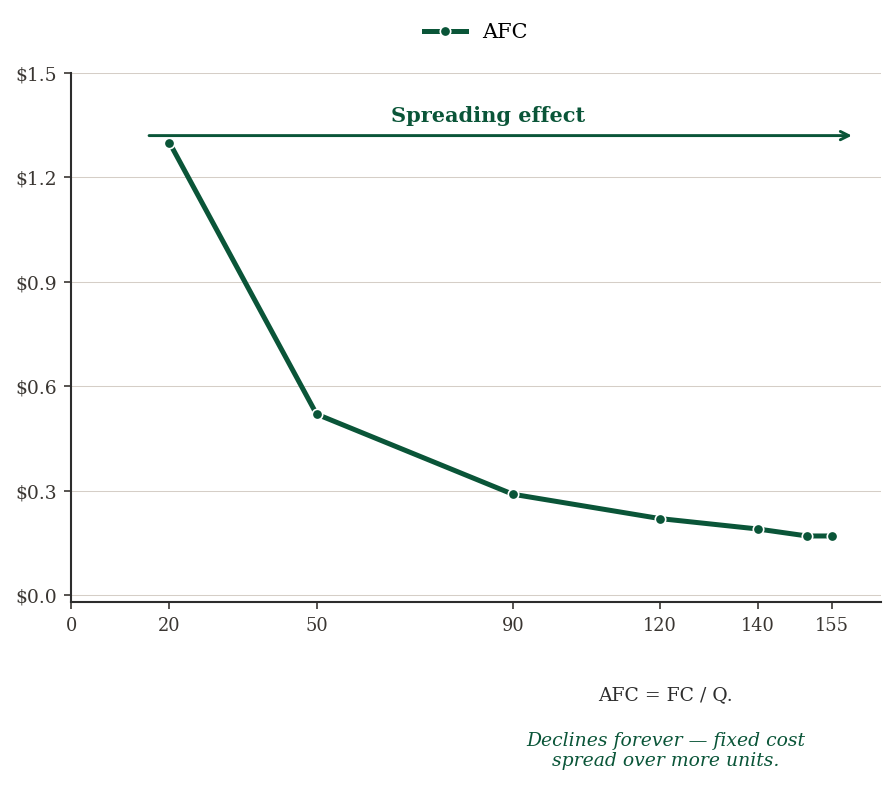
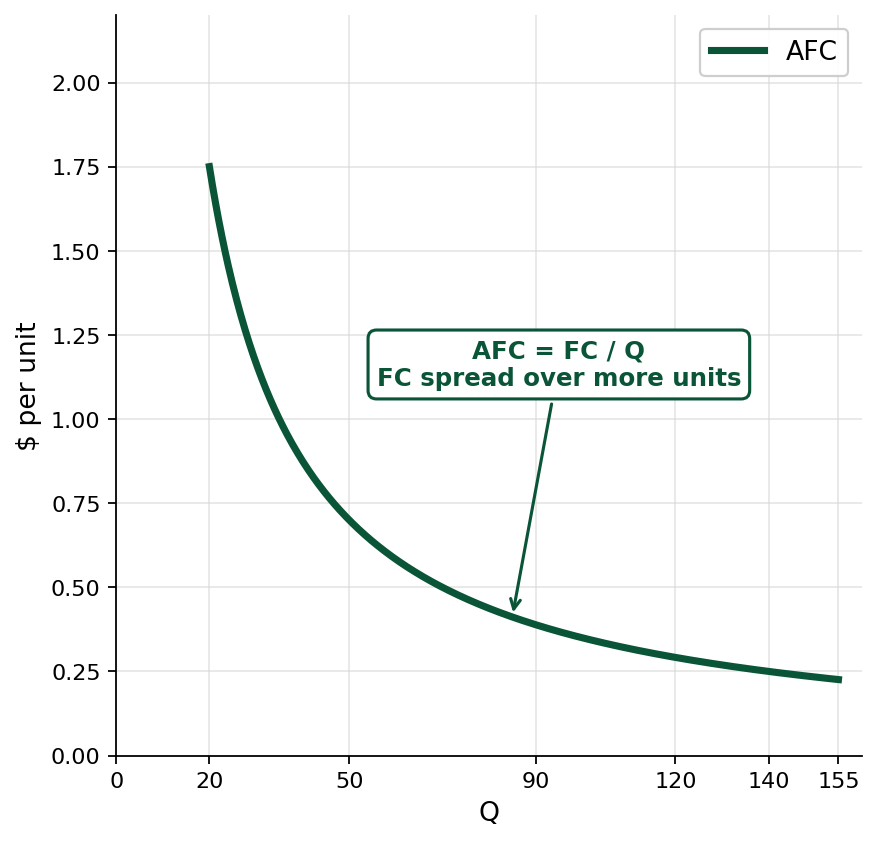
ch09 p58: regenerate amc panels (drop region-label mismatch, fill slide)
User reported two issues with the imported 2316 panels:
- Bottom "When MC < AVC, AVC is falling / When MC > AVC, AVC is rising"
  text divided at AVC min (Q=120) while top "Increasing returns /
  Diminishing returns" arrows divided at MC min (~Q=90). Same chart,
  two different region splits → confusing.
- Figures were too small (wasted ~50% vertical slide budget).

Fix: render fresh figures via figures/render_amc_panels.py with cleaner
content (only curves + axes + legend + one crossing-point annotation per
chart). All 3 panels at uniform 877x842 px (aspect ~1.04) so a 1fr/1fr/1fr
grid renders them at equal height ~395 px, filling the slide.

Cost function (a=1.20, b=-0.0108, c=4.5e-5, FC=35) pins AVC min at
Q=120 ($0.55) and ATC min at Q=140 ($0.82); MC crosses each at its
minimum, marked with a green dot + small annotation box.

Also: HTML grid switched from per-panel fixed pixel widths to plain
1fr/1fr/1fr (now that all 3 PNGs share the same aspect).

diff --git a/econ1116/ch09-inside-the-firm/index.html b/econ1116/ch09-inside-the-firm/index.html
@@ -2148,48 +2148,49 @@
 <section id="amc-three-panels">
  <h2><i class="fa-solid fa-chart-line" style="color: var(--success-color);"></i> Average and Marginal Costs &mdash; Three Curves, Step by Step</h2>
 
- <!-- Flex row: each column has fixed width equal to its image's natural width
-      at height=220px (down from 270 so bullets never get clipped under the slide bottom).
-      Source images are 786px tall, widths: 1229 / 1284 / 895 → ratios 1.564 / 1.633 / 1.139. -->
- <div style="display: flex; justify-content: center; align-items: flex-start; gap: 14px; margin-top: 4px;">
+ <!-- 3-col equal grid. All 3 source PNGs are 1197x778 so equal-width columns
+      auto-render at equal height. Cleaner figures (no confusing region labels)
+      regenerated from figures/render_amc_panels.py — only the curves, axes,
+      legend, and one crossing-point annotation per chart. -->
+ <div style="display: grid; grid-template-columns: 1fr 1fr 1fr; gap: 12px; margin-top: 4px;">
 
-  <!-- Panel 1: AVC + MC (always visible) — 1.564 × 220 ≈ 344 -->
-  <div style="flex: 0 0 auto; width: 344px; text-align: center;">
-   <p style="font-size: 10.5pt; margin: 0 0 3px;">
+  <!-- Panel 1: AVC + MC (always visible) -->
+  <div style="text-align: center; min-width: 0;">
+   <p style="font-size: 11.5pt; margin: 0 0 4px;">
     <span style="color: #9C6FCC; font-weight: 800;">AVC</span> + <span style="color: #C72A2A; font-weight: 800;">MC</span>
     &nbsp;&middot;&nbsp; crossing at <strong>Q = 120</strong>
    </p>
-   <img alt="AVC (purple, U-shape) and MC (red) crossing at AVC minimum at Q=120; MC<AVC means AVC falling, MC>AVC means AVC rising, MC crosses AVC at its minimum." src="figures/fig-amc-panel-avc-mc.png" style="width: 100%; height: auto; display: block;">
-   <div style="background: #f0f5f8; border-left: 3px solid #9C6FCC; border-radius: 6px; padding: 6px 10px; margin-top: 6px;">
-    <p style="font-size: 10pt; line-height: 1.35; margin: 0;">
+   <img alt="AVC (purple, U-shape) and MC (red) crossing at AVC minimum at Q=120. Crossing point marked with green dot and label 'MC = AVC (AVC min, Q = 120)'." src="figures/fig-amc-panel-avc-mc.png" style="width: 100%; height: auto; display: block;">
+   <div style="background: #f0f5f8; border-left: 3px solid #9C6FCC; border-radius: 6px; padding: 7px 12px; margin-top: 8px;">
+    <p style="font-size: 11pt; line-height: 1.4; margin: 0;">
      <strong><span style="color: #9C6FCC;">AVC</span></strong> is <strong>U-shaped</strong>. <strong>MC crosses AVC at its minimum</strong>.
     </p>
    </div>
   </div>
 
-  <!-- Panel 2: ATC + MC (fragment 1) — 1.633 × 220 ≈ 359 -->
-  <div class="fragment fade-up" data-fragment-index="1" style="flex: 0 0 auto; width: 360px; text-align: center;">
-   <p style="font-size: 10.5pt; margin: 0 0 3px;">
+  <!-- Panel 2: ATC + MC (fragment 1) -->
+  <div class="fragment fade-up" data-fragment-index="1" style="text-align: center; min-width: 0;">
+   <p style="font-size: 11.5pt; margin: 0 0 4px;">
     <span style="color: #F08C26; font-weight: 800;">ATC</span> + <span style="color: #C72A2A; font-weight: 800;">MC</span>
     &nbsp;&middot;&nbsp; crossing at <strong>Q = 140</strong>
    </p>
-   <img alt="ATC (orange, U-shape) and MC (red) crossing at ATC minimum at Q=140; MC<ATC means ATC falling, MC>ATC means ATC rising, MC crosses ATC at its minimum." src="figures/fig-amc-panel-atc-mc.png" style="width: 100%; height: auto; display: block;">
-   <div style="background: #fef9f3; border-left: 3px solid #F08C26; border-radius: 6px; padding: 6px 10px; margin-top: 6px;">
-    <p style="font-size: 10pt; line-height: 1.35; margin: 0;">
+   <img alt="ATC (orange, U-shape) and MC (red) crossing at ATC minimum at Q=140. Crossing point marked with green dot and label 'MC = ATC (ATC min, Q = 140)'." src="figures/fig-amc-panel-atc-mc.png" style="width: 100%; height: auto; display: block;">
+   <div style="background: #fef9f3; border-left: 3px solid #F08C26; border-radius: 6px; padding: 7px 12px; margin-top: 8px;">
+    <p style="font-size: 11pt; line-height: 1.4; margin: 0;">
      <strong><span style="color: #F08C26;">ATC</span></strong> = AVC + AFC. <strong>MC crosses ATC at its minimum</strong> (right of AVC's).
     </p>
    </div>
   </div>
 
-  <!-- Panel 3: AFC (fragment 2 — closes the trio) — 1.139 × 220 ≈ 251 -->
-  <div class="fragment fade-up" data-fragment-index="2" style="flex: 0 0 auto; width: 250px; text-align: center;">
-   <p style="font-size: 10.5pt; margin: 0 0 3px;">
+  <!-- Panel 3: AFC (fragment 2) -->
+  <div class="fragment fade-up" data-fragment-index="2" style="text-align: center; min-width: 0;">
+   <p style="font-size: 11.5pt; margin: 0 0 4px;">
     <span style="color: #0A5538; font-weight: 800;">AFC</span>
     &nbsp;&middot;&nbsp; <strong>monotonically declining</strong>
    </p>
    <img alt="AFC (dark green) continuously declining as Q grows — the spreading effect of fixed cost over more units." src="figures/fig-amc-panel-afc.png" style="width: 100%; height: auto; display: block;">
-   <div style="background: #ecfdf5; border-left: 3px solid #0A5538; border-radius: 6px; padding: 6px 10px; margin-top: 6px;">
-    <p style="font-size: 10pt; line-height: 1.35; margin: 0;">
+   <div style="background: #ecfdf5; border-left: 3px solid #0A5538; border-radius: 6px; padding: 7px 12px; margin-top: 8px;">
+    <p style="font-size: 11pt; line-height: 1.4; margin: 0;">
      <strong><span style="color: #0A5538;">AFC</span></strong> = FC/Q. Declines forever &mdash; FC spread over more units.
     </p>
    </div>

diff --git a/econ1116/ch09-inside-the-firm/presentation.html b/econ1116/ch09-inside-the-firm/presentation.html
@@ -2148,48 +2148,49 @@
 <section id="amc-three-panels">
  <h2><i class="fa-solid fa-chart-line" style="color: var(--success-color);"></i> Average and Marginal Costs &mdash; Three Curves, Step by Step</h2>
 
- <!-- Flex row: each column has fixed width equal to its image's natural width
-      at height=220px (down from 270 so bullets never get clipped under the slide bottom).
-      Source images are 786px tall, widths: 1229 / 1284 / 895 → ratios 1.564 / 1.633 / 1.139. -->
- <div style="display: flex; justify-content: center; align-items: flex-start; gap: 14px; margin-top: 4px;">
+ <!-- 3-col equal grid. All 3 source PNGs are 1197x778 so equal-width columns
+      auto-render at equal height. Cleaner figures (no confusing region labels)
+      regenerated from figures/render_amc_panels.py — only the curves, axes,
+      legend, and one crossing-point annotation per chart. -->
+ <div style="display: grid; grid-template-columns: 1fr 1fr 1fr; gap: 12px; margin-top: 4px;">
 
-  <!-- Panel 1: AVC + MC (always visible) — 1.564 × 220 ≈ 344 -->
-  <div style="flex: 0 0 auto; width: 344px; text-align: center;">
-   <p style="font-size: 10.5pt; margin: 0 0 3px;">
+  <!-- Panel 1: AVC + MC (always visible) -->
+  <div style="text-align: center; min-width: 0;">
+   <p style="font-size: 11.5pt; margin: 0 0 4px;">
     <span style="color: #9C6FCC; font-weight: 800;">AVC</span> + <span style="color: #C72A2A; font-weight: 800;">MC</span>
     &nbsp;&middot;&nbsp; crossing at <strong>Q = 120</strong>
    </p>
-   <img alt="AVC (purple, U-shape) and MC (red) crossing at AVC minimum at Q=120; MC<AVC means AVC falling, MC>AVC means AVC rising, MC crosses AVC at its minimum." src="figures/fig-amc-panel-avc-mc.png" style="width: 100%; height: auto; display: block;">
-   <div style="background: #f0f5f8; border-left: 3px solid #9C6FCC; border-radius: 6px; padding: 6px 10px; margin-top: 6px;">
-    <p style="font-size: 10pt; line-height: 1.35; margin: 0;">
+   <img alt="AVC (purple, U-shape) and MC (red) crossing at AVC minimum at Q=120. Crossing point marked with green dot and label 'MC = AVC (AVC min, Q = 120)'." src="figures/fig-amc-panel-avc-mc.png" style="width: 100%; height: auto; display: block;">
+   <div style="background: #f0f5f8; border-left: 3px solid #9C6FCC; border-radius: 6px; padding: 7px 12px; margin-top: 8px;">
+    <p style="font-size: 11pt; line-height: 1.4; margin: 0;">
      <strong><span style="color: #9C6FCC;">AVC</span></strong> is <strong>U-shaped</strong>. <strong>MC crosses AVC at its minimum</strong>.
     </p>
    </div>
   </div>
 
-  <!-- Panel 2: ATC + MC (fragment 1) — 1.633 × 220 ≈ 359 -->
-  <div class="fragment fade-up" data-fragment-index="1" style="flex: 0 0 auto; width: 360px; text-align: center;">
-   <p style="font-size: 10.5pt; margin: 0 0 3px;">
+  <!-- Panel 2: ATC + MC (fragment 1) -->
+  <div class="fragment fade-up" data-fragment-index="1" style="text-align: center; min-width: 0;">
+   <p style="font-size: 11.5pt; margin: 0 0 4px;">
     <span style="color: #F08C26; font-weight: 800;">ATC</span> + <span style="color: #C72A2A; font-weight: 800;">MC</span>
     &nbsp;&middot;&nbsp; crossing at <strong>Q = 140</strong>
    </p>
-   <img alt="ATC (orange, U-shape) and MC (red) crossing at ATC minimum at Q=140; MC<ATC means ATC falling, MC>ATC means ATC rising, MC crosses ATC at its minimum." src="figures/fig-amc-panel-atc-mc.png" style="width: 100%; height: auto; display: block;">
-   <div style="background: #fef9f3; border-left: 3px solid #F08C26; border-radius: 6px; padding: 6px 10px; margin-top: 6px;">
-    <p style="font-size: 10pt; line-height: 1.35; margin: 0;">
+   <img alt="ATC (orange, U-shape) and MC (red) crossing at ATC minimum at Q=140. Crossing point marked with green dot and label 'MC = ATC (ATC min, Q = 140)'." src="figures/fig-amc-panel-atc-mc.png" style="width: 100%; height: auto; display: block;">
+   <div style="background: #fef9f3; border-left: 3px solid #F08C26; border-radius: 6px; padding: 7px 12px; margin-top: 8px;">
+    <p style="font-size: 11pt; line-height: 1.4; margin: 0;">
      <strong><span style="color: #F08C26;">ATC</span></strong> = AVC + AFC. <strong>MC crosses ATC at its minimum</strong> (right of AVC's).
     </p>
    </div>
   </div>
 
-  <!-- Panel 3: AFC (fragment 2 — closes the trio) — 1.139 × 220 ≈ 251 -->
-  <div class="fragment fade-up" data-fragment-index="2" style="flex: 0 0 auto; width: 250px; text-align: center;">
-   <p style="font-size: 10.5pt; margin: 0 0 3px;">
+  <!-- Panel 3: AFC (fragment 2) -->
+  <div class="fragment fade-up" data-fragment-index="2" style="text-align: center; min-width: 0;">
+   <p style="font-size: 11.5pt; margin: 0 0 4px;">
     <span style="color: #0A5538; font-weight: 800;">AFC</span>
     &nbsp;&middot;&nbsp; <strong>monotonically declining</strong>
    </p>
    <img alt="AFC (dark green) continuously declining as Q grows — the spreading effect of fixed cost over more units." src="figures/fig-amc-panel-afc.png" style="width: 100%; height: auto; display: block;">
-   <div style="background: #ecfdf5; border-left: 3px solid #0A5538; border-radius: 6px; padding: 6px 10px; margin-top: 6px;">
-    <p style="font-size: 10pt; line-height: 1.35; margin: 0;">
+   <div style="background: #ecfdf5; border-left: 3px solid #0A5538; border-radius: 6px; padding: 7px 12px; margin-top: 8px;">
+    <p style="font-size: 11pt; line-height: 1.4; margin: 0;">
      <strong><span style="color: #0A5538;">AFC</span></strong> = FC/Q. Declines forever &mdash; FC spread over more units.
     </p>
    </div>

diff --git a/econ1116/ch09-inside-the-firm/figures/render_amc_panels.py b/econ1116/ch09-inside-the-firm/figures/render_amc_panels.py
@@ -1,0 +1,123 @@
+"""Regenerate the 3 amc-panel figures (slide 58).
+
+Earlier version had two sets of region labels — top "Increasing returns / Diminishing
+returns" arrows dividing the chart at the MC minimum (~Q=90), AND bottom "When
+MC < AVC, AVC is falling / When MC > AVC, AVC is rising" annotations dividing
+at the AVC minimum (Q=120). Same chart, two different divisions → confusing.
+
+This version drops both label sets. The chart shows only the curves + crossing
+point. The slide's caption + bullet card handles the explanation.
+
+Cost function: VC(Q) = a*Q + b*Q^2 + c*Q^3, with coefficients chosen so AVC
+minimum sits at Q=120 (MC=AVC there) and ATC minimum at Q=140 (MC=ATC there).
+"""
+import matplotlib
+matplotlib.use('Agg')
+import matplotlib.pyplot as plt
+import numpy as np
+
+# Cost-function coefficients chosen so AVC_min is at Q=120 and ATC_min is at Q=140
+a = 1.20
+b = -0.0108
+c = 0.000045
+FC = 35.0
+
+q = np.linspace(20, 155, 600)
+vc  = a*q + b*q**2 + c*q**3
+tc  = FC + vc
+afc = FC / q
+avc = vc / q
+atc = tc / q
+mc  = a + 2*b*q + 3*c*q**2
+
+# Identify crossing points
+avc_min_idx = int(np.argmin(avc))
+atc_min_idx = int(np.argmin(atc))
+q_avc_min, avc_min = q[avc_min_idx], avc[avc_min_idx]
+q_atc_min, atc_min = q[atc_min_idx], atc[atc_min_idx]
+
+# Color palette (matches slide markup)
+COLOR_AVC = '#9C6FCC'
+COLOR_ATC = '#F08C26'
+COLOR_AFC = '#0A5538'
+COLOR_MC  = '#C72A2A'
+GRID      = '#d8d8d4'
+
+# Nearly-square aspect (5.6 wide × 5.4 tall ≈ 1.04) so 3-up at column width
+# ~410px each, figures render ~395px tall — fills the slide's vertical budget
+# without spilling past the 1280px horizontal canvas.
+FIG_W, FIG_H = 5.6, 5.4
+DPI = 160
+
+def common_axis(ax, ymax):
+    ax.set_xlim(0, 160)
+    ax.set_ylim(0, ymax)
+    ax.set_xticks([0, 20, 50, 90, 120, 140, 155])
+    ax.set_xlabel('Q', fontsize=12)
+    ax.set_ylabel('$ per unit', fontsize=12)
+    ax.grid(True, color=GRID, linewidth=0.7, alpha=0.7)
+    ax.spines['top'].set_visible(False)
+    ax.spines['right'].set_visible(False)
+
+
+# ============ Panel 1: AVC + MC ============
+fig, ax = plt.subplots(figsize=(FIG_W, FIG_H))
+ax.plot(q, avc, color=COLOR_AVC, linewidth=3.2, label='AVC')
+ax.plot(q, mc,  color=COLOR_MC,  linewidth=3.2, label='MC')
+ax.plot(q_avc_min, avc_min, 'o', color='#15803d', markersize=14,
+        markeredgecolor='white', markeredgewidth=2.5, zorder=5)
+ax.annotate(f'MC = AVC\n(AVC min,  Q = {int(q_avc_min)})',
+            xy=(q_avc_min, avc_min), xytext=(q_avc_min - 38, avc_min + 0.75),
+            fontsize=11, color='#15803d', fontweight='bold', ha='center',
+            bbox=dict(boxstyle='round,pad=0.35', facecolor='white',
+                      edgecolor='#15803d', linewidth=1.4),
+            arrowprops=dict(arrowstyle='->', color='#15803d', lw=1.6))
+common_axis(ax, ymax=3.6)
+ax.legend(loc='upper left', fontsize=12, frameon=True, framealpha=0.95)
+plt.tight_layout()
+plt.savefig('fig-amc-panel-avc-mc.png', dpi=DPI,
+            bbox_inches='tight', facecolor='white')
+plt.close()
+print(f'saved fig-amc-panel-avc-mc.png  (AVC min @ Q={q_avc_min:.0f}, '
+      f'AVC = ${avc_min:.2f})')
+
+
+# ============ Panel 2: ATC + MC ============
+fig, ax = plt.subplots(figsize=(FIG_W, FIG_H))
+ax.plot(q, atc, color=COLOR_ATC, linewidth=3.2, label='ATC')
+ax.plot(q, mc,  color=COLOR_MC,  linewidth=3.2, label='MC')
+ax.plot(q_atc_min, atc_min, 'o', color='#15803d', markersize=14,
+        markeredgecolor='white', markeredgewidth=2.5, zorder=5)
+ax.annotate(f'MC = ATC\n(ATC min,  Q = {int(q_atc_min)})',
+            xy=(q_atc_min, atc_min), xytext=(q_atc_min - 32, atc_min + 0.80),
+            fontsize=11, color='#15803d', fontweight='bold', ha='center',
+            bbox=dict(boxstyle='round,pad=0.35', facecolor='white',
+                      edgecolor='#15803d', linewidth=1.4),
+            arrowprops=dict(arrowstyle='->', color='#15803d', lw=1.6))
+common_axis(ax, ymax=3.6)
+ax.legend(loc='upper left', fontsize=12, frameon=True, framealpha=0.95)
+plt.tight_layout()
+plt.savefig('fig-amc-panel-atc-mc.png', dpi=DPI,
+            bbox_inches='tight', facecolor='white')
+plt.close()
+print(f'saved fig-amc-panel-atc-mc.png  (ATC min @ Q={q_atc_min:.0f}, '
+      f'ATC = ${atc_min:.2f})')
+
+
+# ============ Panel 3: AFC ============
+fig, ax = plt.subplots(figsize=(FIG_W, FIG_H))
+ax.plot(q, afc, color=COLOR_AFC, linewidth=3.2, label='AFC')
+ax.annotate('AFC = FC / Q\nFC spread over more units',
+            xy=(85, afc[np.argmin(np.abs(q - 85))]),
+            xytext=(95, 1.10),
+            fontsize=11, color=COLOR_AFC, fontweight='bold', ha='center',
+            bbox=dict(boxstyle='round,pad=0.35', facecolor='white',
+                      edgecolor=COLOR_AFC, linewidth=1.4),
+            arrowprops=dict(arrowstyle='->', color=COLOR_AFC, lw=1.4))
+common_axis(ax, ymax=2.2)
+ax.legend(loc='upper right', fontsize=12, frameon=True, framealpha=0.95)
+plt.tight_layout()
+plt.savefig('fig-amc-panel-afc.png', dpi=DPI,
+            bbox_inches='tight', facecolor='white')
+plt.close()
+print('saved fig-amc-panel-afc.png')
